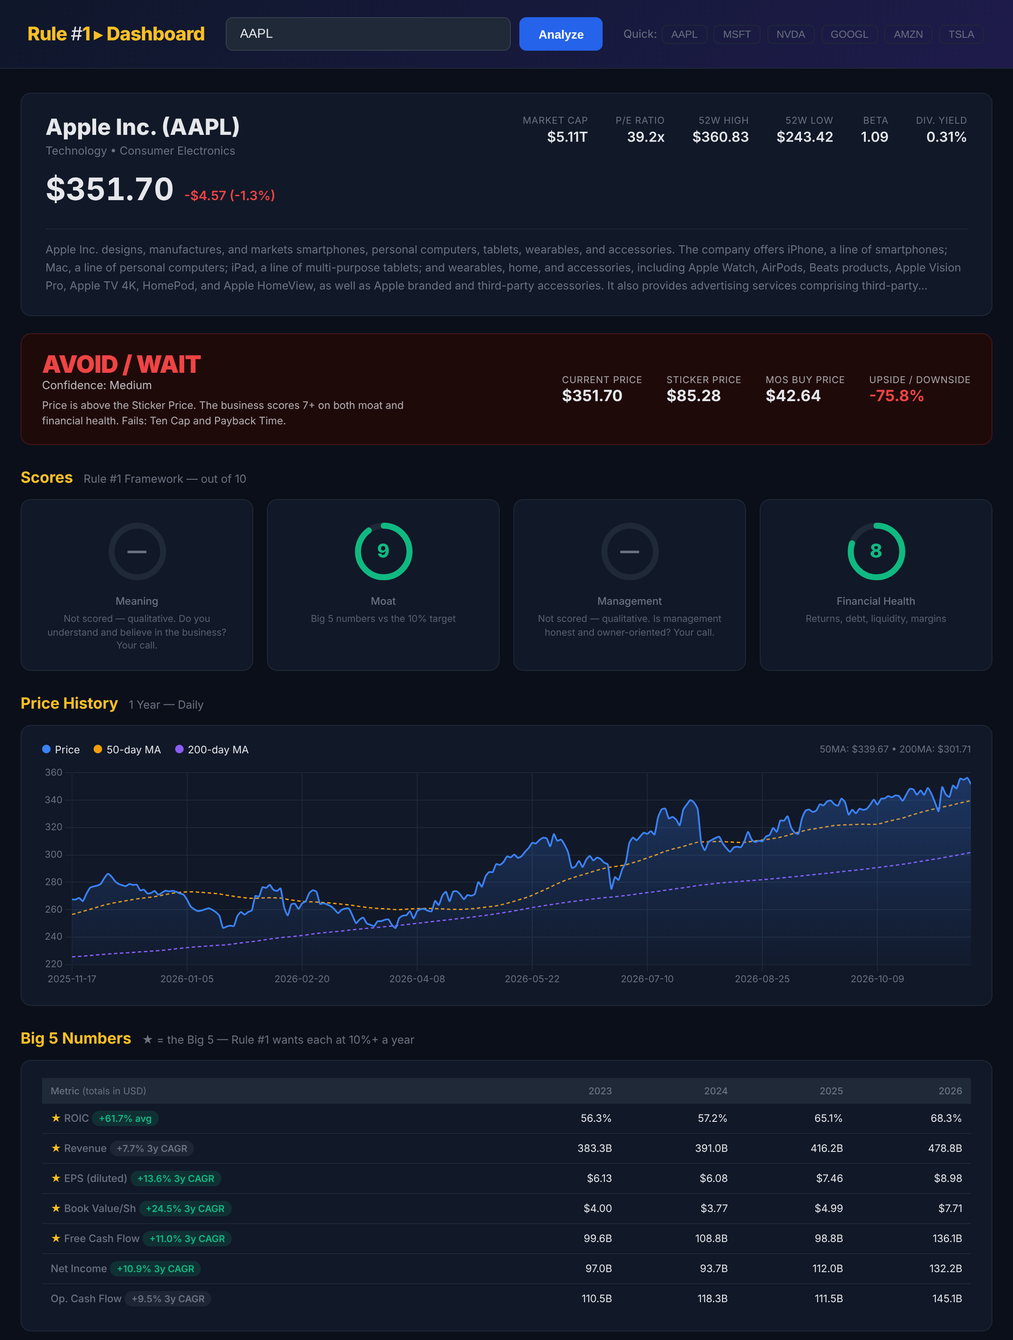
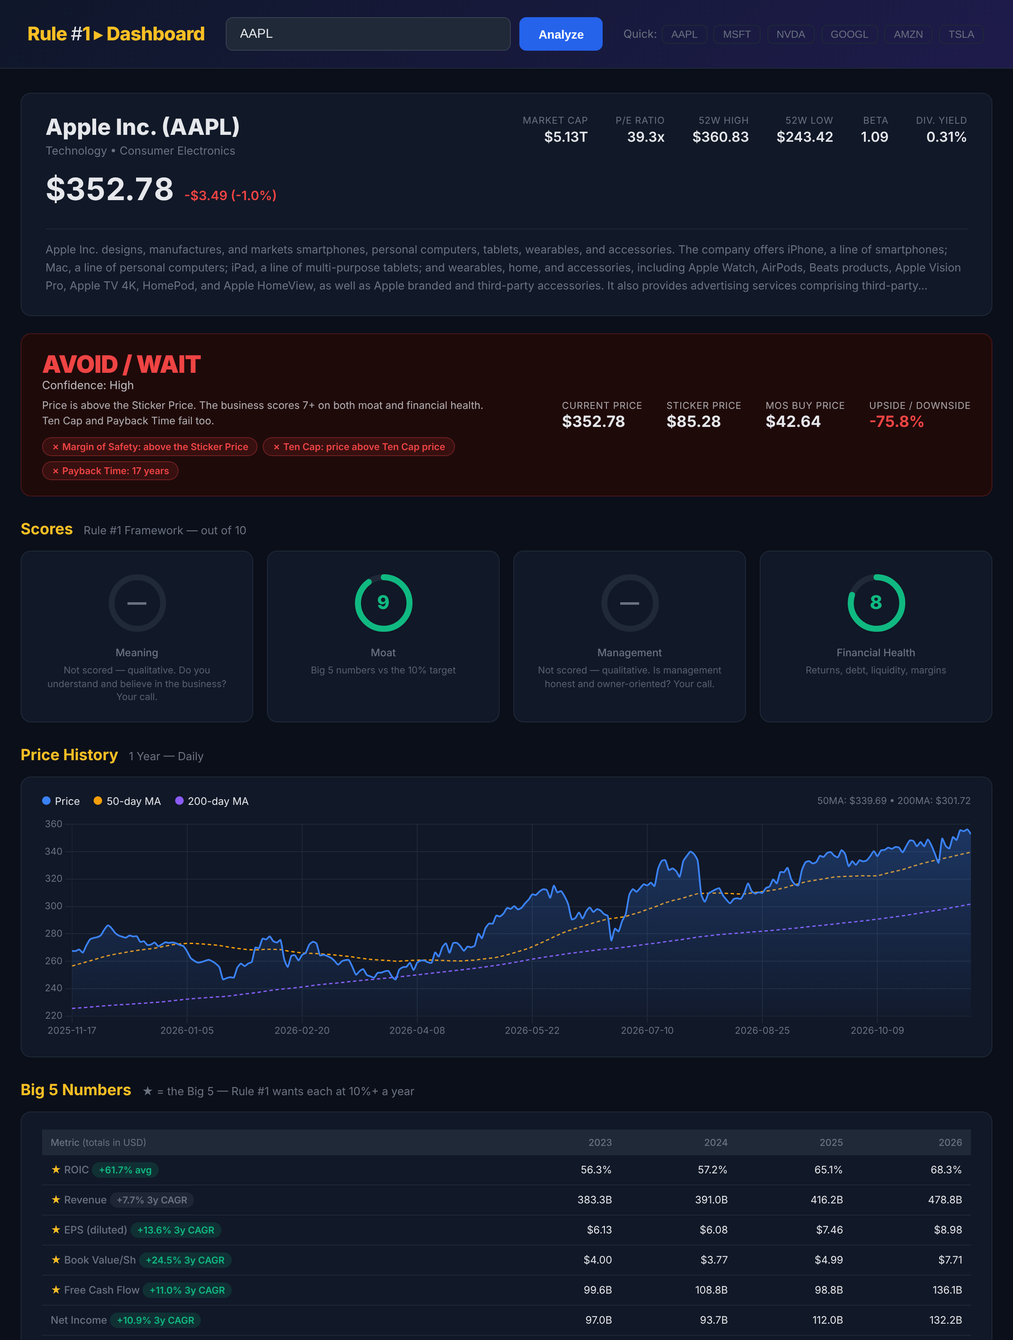
Let Ten Cap and Payback Time influence the verdict
The verdict previously depended on the Sticker Price alone. It now
combines all three valuation methods:

- The Margin of Safety price remains the buy test and 7+ quality scores
  still gate BUY / STRONG BUY.
- Ten Cap and Payback Time raise confidence when they pass and lower it
  when they fail; a failure holds back a STRONG BUY.
- An above-Sticker stock is lifted to WATCHLIST when both pass, or when
  one passes and the price is within 20% of the Sticker Price.
- They never produce a buy on their own, a method with no result counts
  neither way, and no Sticker Price always means AVOID / WAIT.

The banner shows a pass/fail chip per method. Adds tests for each
combination and refreshes the README and screenshot.

Claude-Session: https://claude.ai/code/session_01KDEb1TWkKysygnE2Wz5y1P

diff --git a/rule1_dashboard.py b/rule1_dashboard.py
@@ -58,6 +58,7 @@ MAX_GROWTH      = 0.15   # cap on the growth rate fed into the Sticker Price
 MAX_FUTURE_PE   = 50
 BIG5_TARGET     = 0.10   # every Big 5 number should be ≥ 10% a year
 PAYBACK_TARGET  = 8      # years
+NEAR_MISS       = 0.20   # "close to the Sticker Price" = within 20% above it
 
 # ─────────────────────────────────────────────────────────────────
 #  DATA HELPERS
@@ -306,6 +307,87 @@ def to_score(parts):
     if len(got) < 2:
         return None
     return max(1, round(10 * sum(got) / (2 * len(got))))
+
+def _join(names):
+    return " and ".join(names)
+
+def decide_verdict(price, sticker_price, mos_price, ten_cap_ok, payback_ok,
+                   strong_fin, good_moat):
+    """Combine the three valuation methods into ``(verdict, confidence, reasons)``.
+
+    ``ten_cap_ok`` / ``payback_ok`` are True (passes), False (fails) or None
+    (the method produced no result — never counted either way).
+
+    The Margin of Safety price is the buy test and the quality scores gate
+    BUY / STRONG BUY. Ten Cap and Payback Time are second opinions: agreement
+    raises confidence, disagreement lowers it (and holds back a STRONG BUY),
+    and they can put an expensive-on-Sticker stock on the watchlist — but they
+    can never produce a buy on their own.
+    """
+    others  = {"Ten Cap": ten_cap_ok, "Payback Time": payback_ok}
+    passed  = [nm for nm, ok in others.items() if ok is True]
+    failed  = [nm for nm, ok in others.items() if ok is False]
+    quality = int(bool(strong_fin)) + int(bool(good_moat))
+    q_text  = ("The business scores 7+ on both moat and financial health." if quality == 2
+               else "The business scores 7+ on only one of moat and financial health." if quality == 1
+               else "The business scores below 7 on both moat and financial health.")
+    agree    = f"{_join(passed)} {'pass' if len(passed) > 1 else 'passes'}" if passed else None
+    disagree = f"{_join(failed)} {'fail' if len(failed) > 1 else 'fails'}" if failed else None
+    reasons  = []
+
+    if price <= mos_price:
+        reasons += ["Price is at or below the Margin of Safety price.", q_text]
+        if quality == 2 and not failed:
+            verdict, confidence = "STRONG BUY", "High"
+            if agree:
+                reasons.append(f"{agree} too.")
+        elif quality == 2:
+            verdict, confidence = "BUY", "Medium"
+            reasons.append(f"{disagree}, which holds this back from a Strong Buy.")
+        elif quality == 1:
+            verdict, confidence = "BUY", ("Low" if failed else "Medium")
+            if disagree:
+                reasons.append(f"{disagree}, lowering confidence.")
+            elif agree:
+                reasons.append(f"{agree} too.")
+        else:
+            verdict, confidence = "WATCHLIST", "Low"
+            reasons.append("It is cheap, but Rule #1 only buys wonderful businesses.")
+    elif price <= sticker_price:
+        verdict = "WATCHLIST"
+        reasons += ["Price is below the Sticker Price but not yet at the Margin of Safety price.", q_text]
+        if passed and not failed:
+            confidence = "High"
+            reasons.append(f"{agree}, raising confidence.")
+        elif failed and not passed:
+            confidence = "Low"
+            reasons.append(f"{disagree}, lowering confidence.")
+        else:
+            confidence = "Medium"
+            if passed and failed:
+                reasons.append(f"{agree}, but {disagree}.")
+    else:
+        near = price <= sticker_price * (1 + NEAR_MISS)
+        if len(passed) == 2:
+            verdict, confidence = "WATCHLIST", "Low"
+            reasons += ["Price is above the Sticker Price, but Ten Cap and Payback Time both pass, "
+                        "so it is worth watching.", q_text]
+        elif near and passed:
+            verdict, confidence = "WATCHLIST", "Low"
+            reasons += [f"Price is within {NEAR_MISS:.0%} of the Sticker Price and {agree}, "
+                        "so it is worth watching.", q_text]
+            if disagree:
+                reasons.append(f"{disagree}.")
+        else:
+            verdict = "AVOID / WAIT"
+            confidence = "High" if (failed and not passed) else "Medium"
+            reasons += ["Price is above the Sticker Price.", q_text]
+            if failed and not passed:
+                reasons.append(f"{disagree} too.")
+            elif passed:
+                reasons.append(f"{agree}, but that alone is not enough"
+                               + (f"; {disagree}." if disagree else "."))
+    return verdict, confidence, reasons
 
 # ─────────────────────────────────────────────────────────────────
 #  CORE ANALYSIS
@@ -769,6 +851,37 @@ def analyze(sym, allow_partial=False):
     is_good_moat  = moat_sc is not None and moat_sc >= 7
     reasons = []
 
+    # Each method's own answer: True = passes, False = fails, None = no result
+    # (bank cash flows, negative free cash flow, no exchange rate, missing data…).
+    ten_cap_ok = (price <= ten_cap_ps) if (price is not None and ten_cap_ps is not None) else None
+    payback_ok = None
+    if payback_yrs is not None:
+        payback_ok = payback_yrs <= PAYBACK_TARGET
+    elif payback_over:
+        payback_ok = False
+
+    def method(name, ok, detail):
+        return {"name": name, "result": "na" if ok is None else "pass" if ok else "fail", "detail": detail}
+
+    if sticker_price is not None and price is not None:
+        mos_detail = ("at or below the MOS price" if price <= mos_price
+                      else "below Sticker, above MOS" if price <= sticker_price
+                      else "above the Sticker Price")
+        mos_method = {"name": "Margin of Safety",
+                      "result": "pass" if price <= mos_price else "near" if price <= sticker_price else "fail",
+                      "detail": mos_detail}
+    else:
+        mos_method = method("Margin of Safety", None, "no Sticker Price")
+    methods = [
+        mos_method,
+        method("Ten Cap", ten_cap_ok,
+               "no result" if ten_cap_ok is None
+               else "price at or below Ten Cap price" if ten_cap_ok else "price above Ten Cap price"),
+        method("Payback Time", payback_ok,
+               "no result" if payback_ok is None
+               else f"{payback_yrs} years" if payback_yrs is not None else "over 30 years"),
+    ]
+
     if price is None or sticker_issue in ("no_eps", "no_growth_data"):
         verdict, confidence = "INSUFFICIENT DATA", "Low"
         reasons.append("Yahoo Finance did not return enough data to value this company.")
@@ -786,42 +899,15 @@ def analyze(sym, allow_partial=False):
         reasons.append("There is no Sticker Price because " + " and ".join(why) +
                        " — Rule #1 values a business on the lower of its historical and expected growth.")
     else:
-        q_text = ("The business scores 7+ on both moat and financial health."
-                  if (is_strong_fin and is_good_moat)
-                  else "The business scores 7+ on only one of moat and financial health."
-                  if (is_strong_fin or is_good_moat)
-                  else "The business scores below 7 on both moat and financial health.")
-        if price <= mos_price:
-            reasons.append("Price is at or below the Margin of Safety price.")
-            reasons.append(q_text)
-            if is_strong_fin and is_good_moat:
-                verdict, confidence = "STRONG BUY", "High"
-            elif is_strong_fin or is_good_moat:
-                verdict, confidence = "BUY", "Medium"
-            else:
-                verdict, confidence = "WATCHLIST", "Low"
-        elif price <= sticker_price:
-            verdict, confidence = "WATCHLIST", "Medium"
-            reasons.append("Price is below the Sticker Price but not yet at the Margin of Safety price.")
-            reasons.append(q_text)
-        else:
-            verdict, confidence = "AVOID / WAIT", "Medium"
-            reasons.append("Price is above the Sticker Price.")
-            reasons.append(q_text)
-    if sticker_issue is None and price is not None:
-        # The verdict is driven by the Sticker Price; say where the other two
-        # valuation methods agree or disagree with it.
-        others = []
-        if ten_cap_ps is not None:
-            others.append(("Ten Cap", price <= ten_cap_ps))
-        if payback_yrs is not None or payback_over:
-            others.append(("Payback Time", payback_yrs is not None and payback_yrs <= PAYBACK_TARGET))
-        passed = [nm for nm, ok in others if ok]
-        failed = [nm for nm, ok in others if not ok]
+        verdict, confidence, reasons = decide_verdict(
+            price, sticker_price, mos_price, ten_cap_ok, payback_ok, is_strong_fin, is_good_moat)
+
+    if sticker_issue in ("negative_eps", "no_growth") and price is not None:
+        # No Sticker Price means no buy, whatever the other two methods say.
+        passed = [m["name"] for m in methods[1:] if m["result"] == "pass"]
         if passed:
-            reasons.append(f"Also passes: {' and '.join(passed)}.")
-        if failed:
-            reasons.append(f"Fails: {' and '.join(failed)}.")
+            reasons.append(f"{_join(passed)} {'pass' if len(passed) > 1 else 'passes'}, "
+                           "but Rule #1 does not buy without a Sticker Price.")
     if n < 4 and n > 0:
         reasons.append(f"Only {n} fiscal year(s) of statements were available; growth rates are less reliable.")
 
@@ -902,7 +988,8 @@ def analyze(sym, allow_partial=False):
             "meaning": None, "moat": moat_sc,
             "management": None, "financial": fin_sc, "overall": overall,
         },
-        "verdict": {"verdict": verdict, "confidence": confidence, "reasons": reasons},
+        "verdict": {"verdict": verdict, "confidence": confidence, "reasons": reasons,
+                    "methods": methods},
         "notes": notes, "partial": partial,
     }
 
@@ -1009,7 +1096,13 @@ HTML = r"""<!DOCTYPE html>
   }
   .verdict-label { font-size: 28px; font-weight: 900; letter-spacing: -0.5px; }
   .verdict-sub { font-size: 13px; opacity: 0.8; }
-  .verdict-reasons { font-size: 12px; opacity: 0.75; margin-top: 6px; max-width: 460px; line-height: 1.5; }
+  .verdict-reasons { font-size: 12px; opacity: 0.75; margin-top: 6px; max-width: 520px; line-height: 1.5; }
+  .verdict-methods { display: flex; flex-wrap: wrap; gap: 6px; margin-top: 10px; max-width: 520px; }
+  .vm-chip { font-size: 11px; font-weight: 600; padding: 3px 10px; border-radius: 20px; border: 1px solid; white-space: nowrap; }
+  .vm-pass { color: var(--green);  background: rgba(16,185,129,0.12); border-color: rgba(16,185,129,0.3); }
+  .vm-near { color: var(--yellow); background: rgba(245,158,11,0.12); border-color: rgba(245,158,11,0.3); }
+  .vm-fail { color: var(--red);    background: rgba(239,68,68,0.12);  border-color: rgba(239,68,68,0.3); }
+  .vm-na   { color: var(--muted);  background: rgba(107,114,128,0.12); border-color: rgba(107,114,128,0.3); }
   .verdict-prices { display: flex; gap: 28px; margin-left: auto; flex-wrap: wrap; }
   .vp-item .vp-label { font-size: 11px; text-transform: uppercase; letter-spacing: 0.5px; opacity: 0.7; }
   .vp-item .vp-val   { font-size: 18px; font-weight: 700; margin-top: 2px; }
@@ -1170,6 +1263,7 @@ HTML = r"""<!DOCTYPE html>
         <div class="verdict-label" id="verdictLabel"></div>
         <div class="verdict-sub" id="verdictSub"></div>
         <div class="verdict-reasons" id="verdictReasons"></div>
+        <div class="verdict-methods" id="verdictMethods"></div>
       </div>
       <div class="verdict-prices">
         <div class="vp-item"><div class="vp-label">Current Price</div><div class="vp-val" id="vpCurrent"></div></div>
@@ -1398,6 +1492,17 @@ function renderVerdict(verdict, info, val) {
   $('verdictLabel').style.color = fg;
   $('verdictSub').textContent   = `Confidence: ${verdict.confidence}`;
   $('verdictReasons').textContent = (verdict.reasons || []).join(' ');
+
+  // One chip per valuation method so it's clear what drove the verdict.
+  const icon = { pass: '✓', near: '≈', fail: '✗', na: '–' };
+  const box = $('verdictMethods');
+  box.innerHTML = '';
+  (verdict.methods || []).forEach(m => {
+    const chip = document.createElement('span');
+    chip.className = 'vm-chip vm-' + m.result;
+    chip.textContent = `${icon[m.result] || ''} ${m.name}: ${m.detail}`;
+    box.appendChild(chip);
+  });
 
   $('vpCurrent').textContent = fmtP(info.price);
   $('vpSticker').textContent = fmtP(val.sticker_price);

diff --git a/tests/test_analysis.py b/tests/test_analysis.py
@@ -194,7 +194,102 @@ class TestHelpers(unittest.TestCase):
         self.assertEqual(s, [105, 103, 101, 100])
 
 
+class TestVerdict(unittest.TestCase):
+    """decide_verdict(price, sticker, mos, ten_cap_ok, payback_ok, strong_fin, good_moat)"""
+    STICKER, MOS = 100.0, 50.0
+
+    def v(self, price, ten_cap, payback, fin=True, moat=True):
+        verdict, confidence, reasons = r1.decide_verdict(
+            price, self.STICKER, self.MOS, ten_cap, payback, fin, moat)
+        self.assertTrue(reasons)
+        return verdict, confidence
+
+    # ── at or below the Margin of Safety price ──
+    def test_mos_quality_and_agreement_is_strong_buy(self):
+        self.assertEqual(self.v(45, True, True), ("STRONG BUY", "High"))
+        self.assertEqual(self.v(45, True, None), ("STRONG BUY", "High"))
+        self.assertEqual(self.v(45, None, None), ("STRONG BUY", "High"))   # no result ≠ disagreement
+
+    def test_mos_quality_but_disagreement_holds_back_strong_buy(self):
+        self.assertEqual(self.v(45, False, True), ("BUY", "Medium"))
+        self.assertEqual(self.v(45, False, False), ("BUY", "Medium"))
+
+    def test_mos_with_one_quality_score(self):
+        self.assertEqual(self.v(45, True, True, moat=False), ("BUY", "Medium"))
+        self.assertEqual(self.v(45, None, None, fin=False), ("BUY", "Medium"))
+        self.assertEqual(self.v(45, False, None, moat=False), ("BUY", "Low"))
+
+    def test_other_methods_never_buy_a_poor_business(self):
+        self.assertEqual(self.v(45, True, True, fin=False, moat=False), ("WATCHLIST", "Low"))
+
+    # ── between MOS and Sticker ──
+    def test_below_sticker_is_watchlist_with_confidence_from_other_methods(self):
+        self.assertEqual(self.v(80, True, True), ("WATCHLIST", "High"))
+        self.assertEqual(self.v(80, True, None), ("WATCHLIST", "High"))
+        self.assertEqual(self.v(80, True, False), ("WATCHLIST", "Medium"))
+        self.assertEqual(self.v(80, None, None), ("WATCHLIST", "Medium"))
+        self.assertEqual(self.v(80, False, False), ("WATCHLIST", "Low"))
+        self.assertEqual(self.v(80, None, False), ("WATCHLIST", "Low"))
+
+    # ── above Sticker ──
+    def test_above_sticker_lifted_only_by_both_methods_or_a_near_miss(self):
+        self.assertEqual(self.v(300, True, True), ("WATCHLIST", "Low"))      # both pass
+        self.assertEqual(self.v(115, True, False), ("WATCHLIST", "Low"))     # within 20% + one passes
+        self.assertEqual(self.v(115, True, None), ("WATCHLIST", "Low"))
+        self.assertEqual(self.v(125, True, False), ("AVOID / WAIT", "Medium"))   # not near, only one
+        self.assertEqual(self.v(115, None, None), ("AVOID / WAIT", "Medium"))    # near, nothing agrees
+        self.assertEqual(self.v(115, False, False), ("AVOID / WAIT", "High"))
+        self.assertEqual(self.v(300, False, None), ("AVOID / WAIT", "High"))
+
+    def test_other_methods_alone_never_produce_a_buy(self):
+        for price in (51, 80, 115, 300):
+            for fin in (True, False):
+                for moat in (True, False):
+                    verdict, _ = self.v(price, True, True, fin=fin, moat=moat)
+                    self.assertNotIn("BUY", verdict, (price, fin, moat))
+
+
 class TestAnalysis(AnalysisCase):
+    def test_verdict_lists_each_method(self):
+        d = self.run_analysis()                       # price 300 vs sticker ~113
+        m = {x["name"]: x["result"] for x in d["verdict"]["methods"]}
+        self.assertEqual(m, {"Margin of Safety": "fail", "Ten Cap": "fail", "Payback Time": "fail"})
+        self.assertEqual((d["verdict"]["verdict"], d["verdict"]["confidence"]), ("AVOID / WAIT", "High"))
+
+    def test_both_other_methods_passing_lifts_to_watchlist(self):
+        # Trades at ~6x earnings: above its (P/E-capped) Sticker Price, but
+        # owner earnings and free cash flow say it is cheap.
+        d = self.run_analysis(hist=price_history(30.0, 45.0),
+                              info=base_info(currentPrice=45.0, previousClose=44.5,
+                                             marketCap=45.0 * 14.7 * B, trailingPE=5.6))
+        self.assertGreater(45.0, d["valuation"]["sticker_price"])
+        m = {x["name"]: x["result"] for x in d["verdict"]["methods"]}
+        self.assertEqual(m, {"Margin of Safety": "fail", "Ten Cap": "pass", "Payback Time": "pass"})
+        self.assertEqual((d["verdict"]["verdict"], d["verdict"]["confidence"]), ("WATCHLIST", "Low"))
+
+    def test_methods_without_a_result_are_not_counted(self):
+        # No exchange rate → Ten Cap and Payback can't be compared with the price.
+        d = self.run_analysis(info=base_info(financialCurrency="TWD"))
+        m = {x["name"]: x["result"] for x in d["verdict"]["methods"]}
+        self.assertEqual(m["Ten Cap"], "na")
+        self.assertEqual(m["Payback Time"], "na")
+        self.assertEqual((d["verdict"]["verdict"], d["verdict"]["confidence"]), ("AVOID / WAIT", "Medium"))
+        # Negative free cash flow is "no result" for Payback Time, not a fail.
+        cf = base_cf(**{"Free Cash Flow": [5 * B, 2 * B, -1 * B, -4 * B]})
+        m = {x["name"]: x["result"] for x in self.run_analysis(cf=cf)["verdict"]["methods"]}
+        self.assertEqual(m["Payback Time"], "na")
+
+    def test_no_sticker_price_is_never_overridden(self):
+        inc = base_inc(**{"Diluted EPS": [0.33, 0.13, -0.2, -0.53]})
+        d = self.run_analysis(inc=inc, hist=price_history(30.0, 45.0),
+                              info=base_info(currentPrice=45.0, marketCap=45.0 * 14.7 * B,
+                                             trailingEps=-0.53, trailingPE=None))
+        m = {x["name"]: x["result"] for x in d["verdict"]["methods"]}
+        self.assertEqual(m["Margin of Safety"], "na")
+        self.assertEqual(m["Ten Cap"], "pass")
+        self.assertEqual(d["verdict"]["verdict"], "AVOID / WAIT")
+        self.assertIn("does not buy without a Sticker Price", " ".join(d["verdict"]["reasons"]))
+
     def test_payload_is_strict_json(self):
         d = self.run_analysis()
         json.dumps(r1.clean_for_json(d), allow_nan=False)

diff --git a/AUDIT_HANDOFF.md b/AUDIT_HANDOFF.md
@@ -5,7 +5,7 @@ _Working notes so this audit can be resumed in a later session. Not part of the 
 ## Where things stand
 
 - Branch: `claude/dashboard-audit-corrections-ad3oyc`, **pushed to GitHub** and a clean fast-forward from `main`. Not yet merged; no pull request was opened.
-- All fixes live in `rule1_dashboard.py`; offline tests in `tests/test_analysis.py` (37 tests, `python -m unittest discover -s tests -v`). `README.md` describes the corrected methods, `docs/screenshot.png` is a live AAPL run, and `.gitignore` was added.
+- All fixes live in `rule1_dashboard.py`; offline tests in `tests/test_analysis.py` (48 tests, `python -m unittest discover -s tests -v`). `README.md` describes the corrected methods, `docs/screenshot.png` is a live AAPL run, and `.gitignore` was added.
 - Verified with Python 3.13, yfinance 1.8.0, pandas 3.0.5.
 - A personal cloud environment named `rule1-dashboard` allows the Yahoo Finance hosts and the Chart.js CDN, so live data works in sessions that use it. Its setup script (`pip install -r requirements.txt`) has not yet been exercised by a fresh session.
 
@@ -36,6 +36,10 @@ UI / server
 - 50/200-day MA lines actually drawn; stale values cleared between tickers; out-of-order responses ignored; currency-aware formatting; ROIC row; notes box; disclaimer.
 - Threaded server, ticker validation, proper HTTP status codes, binds 127.0.0.1 locally, wildcard CORS header removed.
 
+## Added after the audit
+
+- Verdict now uses all three valuation methods (previously Sticker Price only), with a pass/fail chip per method in the banner. Offline tests: 48.
+
 ## Found on live data and fixed
 
 1. Analyst growth: Yahoo's long-term (`LTG`) stock estimate is blank for every ticker checked, so the code now uses the annualised two-year forward estimate (`0y` and `+1y` rows). Growth is strictly the lower of history and analysts; no Sticker Price when that is not positive.
@@ -55,7 +59,7 @@ These are readings of Rule #1, not bug fixes. Each is a small, isolated piece of
 - **Growth is strictly the lower of history and analysts**, capped at 15%. If the lower one is zero or negative there is no Sticker Price at all.
 - **Analyst growth** is the annualised two-year forward estimate, because Yahoo's long-term figure is blank.
 - **Ten Cap treats all capex as maintenance capex** (Yahoo doesn't split it), which is the conservative choice and lowers the value for heavy investors such as GOOGL and AMZN.
-- **The verdict is driven by the Sticker Price only.** Ten Cap and Payback Time are listed in the reasons as agreeing or not; they do not change the verdict.
+- **The verdict combines all three methods** (`decide_verdict()`): the Margin of Safety price is the buy test and 7+ quality scores gate BUY / STRONG BUY. Ten Cap and Payback Time raise or lower confidence, a disagreement holds back a STRONG BUY, and they lift an above-Sticker stock to WATCHLIST when both pass, or when one passes and the price is within 20% of Sticker (`NEAR_MISS`). They never produce a buy alone; a method with no result counts neither way; no Sticker Price always means AVOID / WAIT.
 - **Scores** give 2 / 1 / 0 points per metric using the same good / warn / bad bands the page colours by; a 7+ counts as passing.
 - **Meaning and Management are unscored** rather than estimated.
 
@@ -80,7 +84,7 @@ These are readings of Rule #1, not bug fixes. Each is a small, isolated piece of
 1. **Merge to `main`** (fast-forward):
    `git fetch origin && git checkout main && git merge origin/claude/dashboard-audit-corrections-ad3oyc && git push origin main`
 2. Delete this file once merged (`git rm AUDIT_HANDOFF.md`).
-3. Optional, not started: a longer history source for 10-year growth; letting Ten Cap / Payback influence the verdict; Rule #1's own technical indicators.
+3. Optional, not started: a longer history source for 10-year growth; Rule #1's own technical indicators.
 
 ## How to verify live
 

diff --git a/README.md b/README.md
@@ -15,7 +15,7 @@ A single-file Python web app that runs a full **Phil Town "Rule #1"** stock anal
   - **Sticker Price** — EPS grown for 10 years, multiplied by a future P/E, discounted back at 15% a year, with a 50% Margin of Safety price. The growth rate is the lower of the company's historical growth (book value per share, or EPS if equity isn't growing) and analysts' long-term estimate, capped at 15%. The future P/E is the lower of 2 × growth and the stock's own historical P/E.
   - **Payback Time** — how many years of free cash flow, growing at that same rate, it takes to add up to the market cap (target: 8 years or less).
 - **Technical timing** — 50/200-day moving averages plotted on a 1-year price chart, golden/death cross, 52-week range, and volume trend.
-- **A final verdict** — Strong Buy / Buy / Watchlist / Avoid, with the reasons behind it. If earnings are negative or nothing shows positive growth, there is no Sticker Price and the dashboard says so instead of assuming a growth rate.
+- **A final verdict** — Strong Buy / Buy / Watchlist / Avoid, with a confidence level, the reasons behind it, and a pass/fail chip for each valuation method. The Margin of Safety price is the buy test and the quality scores gate any Buy; Ten Cap and Payback Time act as second opinions — agreement raises confidence, disagreement lowers it and holds back a Strong Buy, and together they can put a stock that looks expensive on Sticker Price onto the Watchlist. They can never produce a Buy on their own, and a method with no result (for example a bank's cash flows) counts neither way. If earnings are negative or the growth outlook isn't positive, there is no Sticker Price and the dashboard says so instead of assuming a growth rate.
 
 Foreign companies and ADRs are handled: statements reported in another currency are converted to the currency the stock trades in, and per-share figures are restated per quoted share.
 
